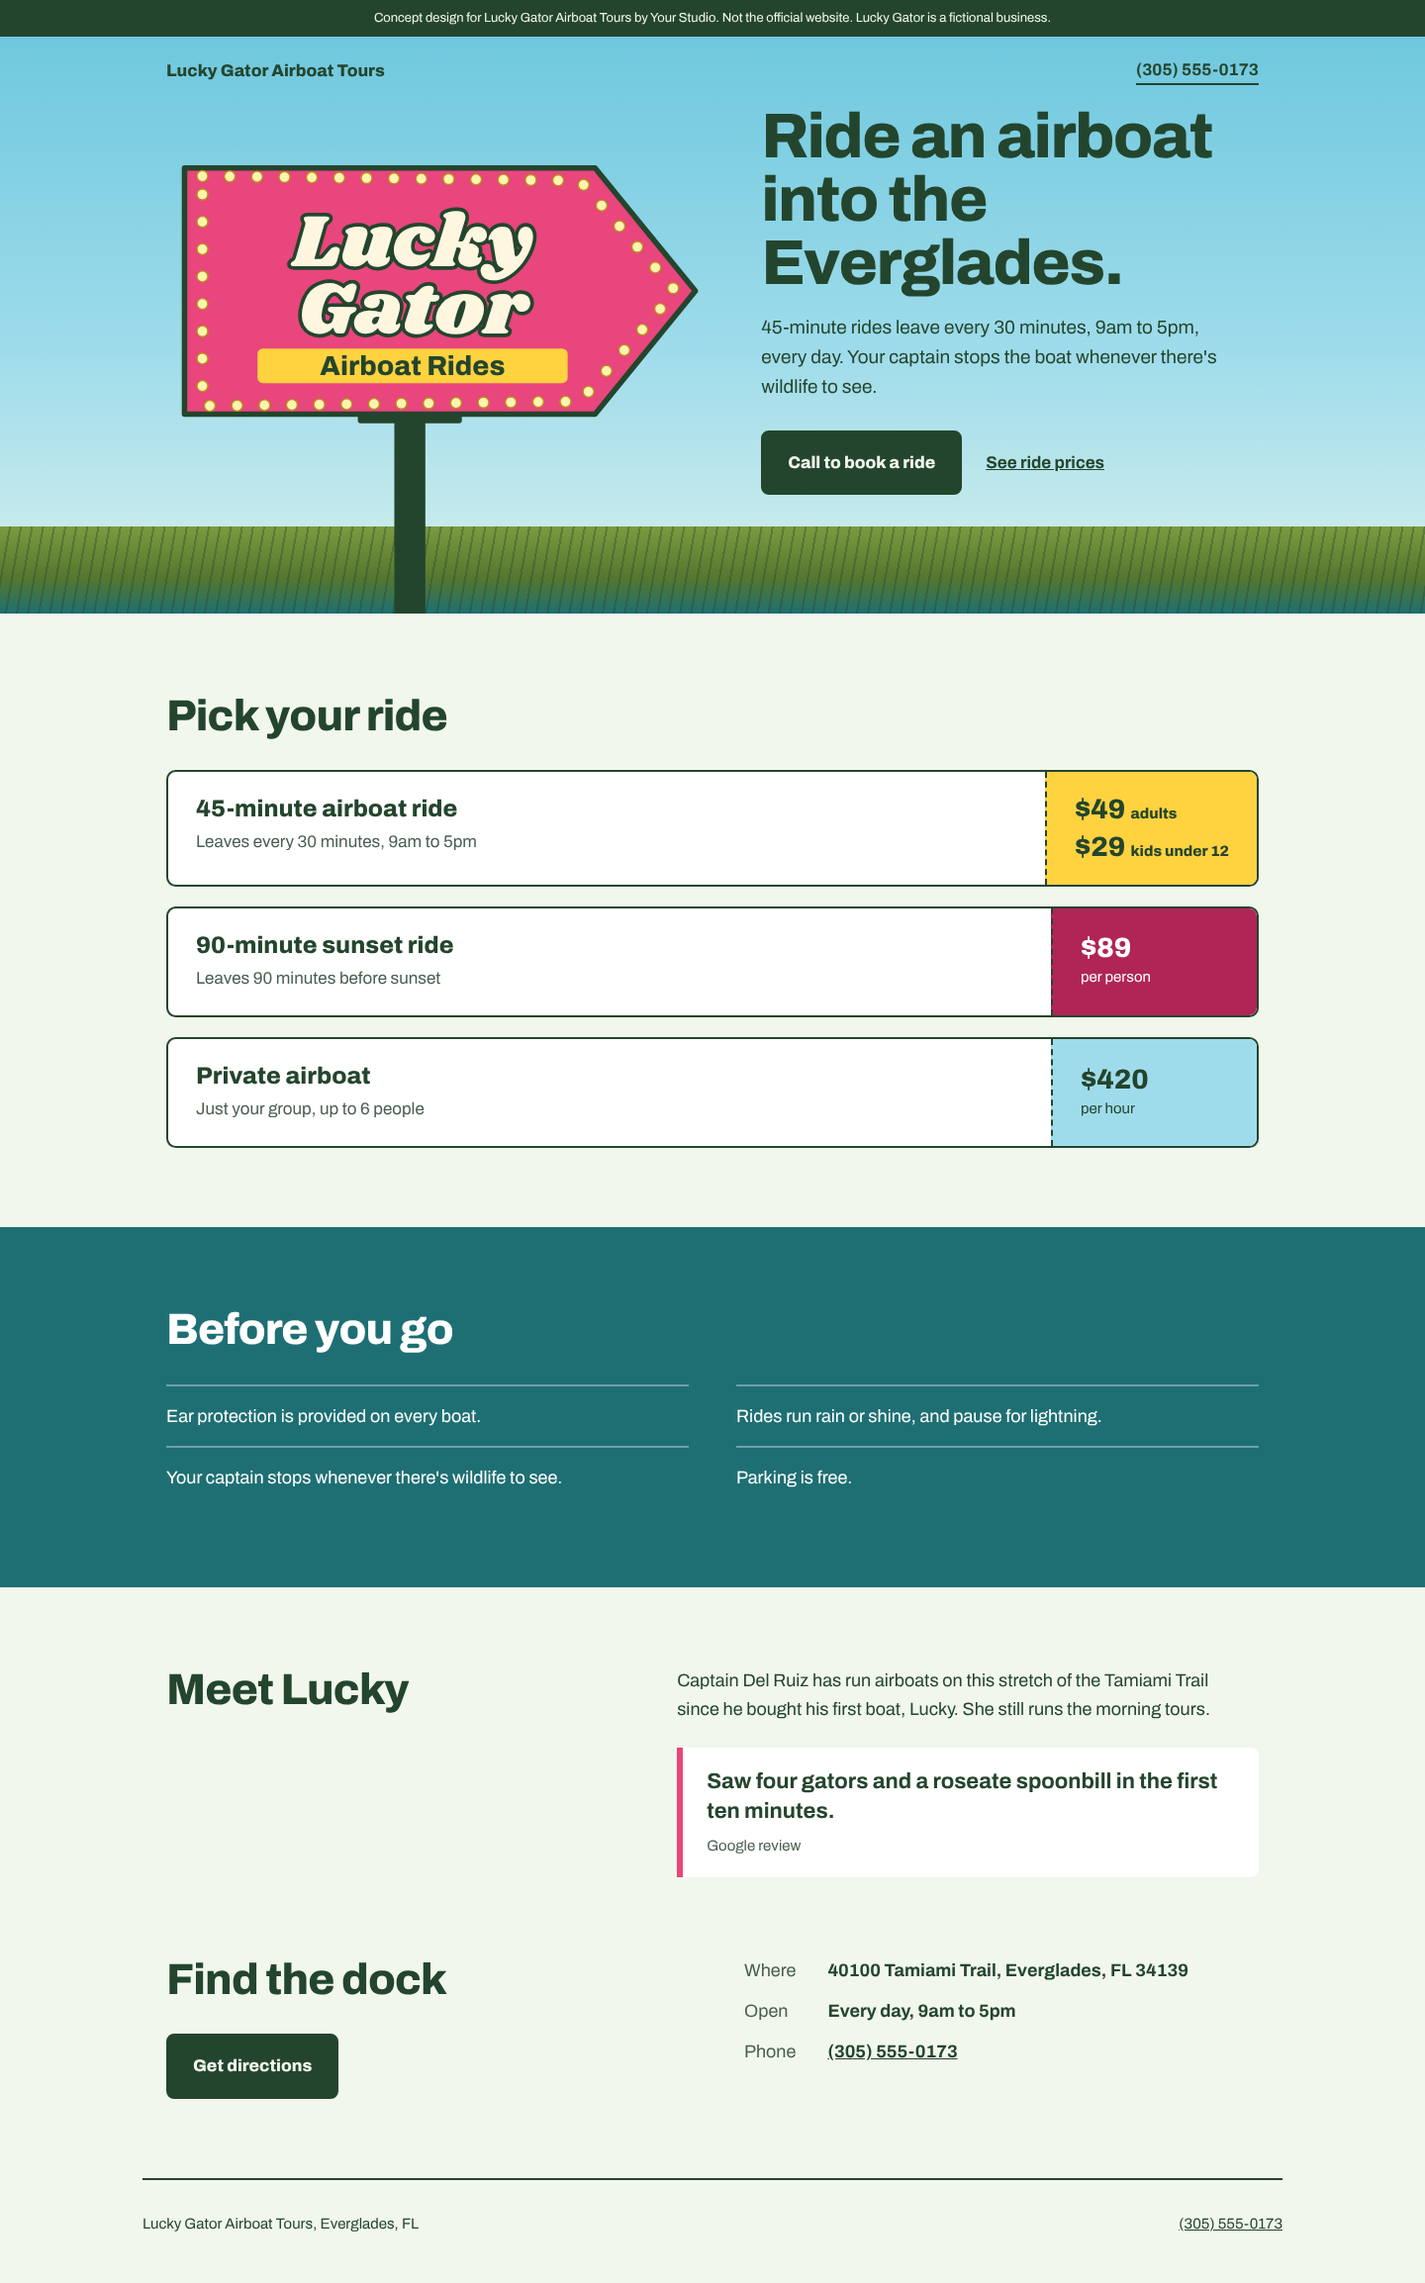
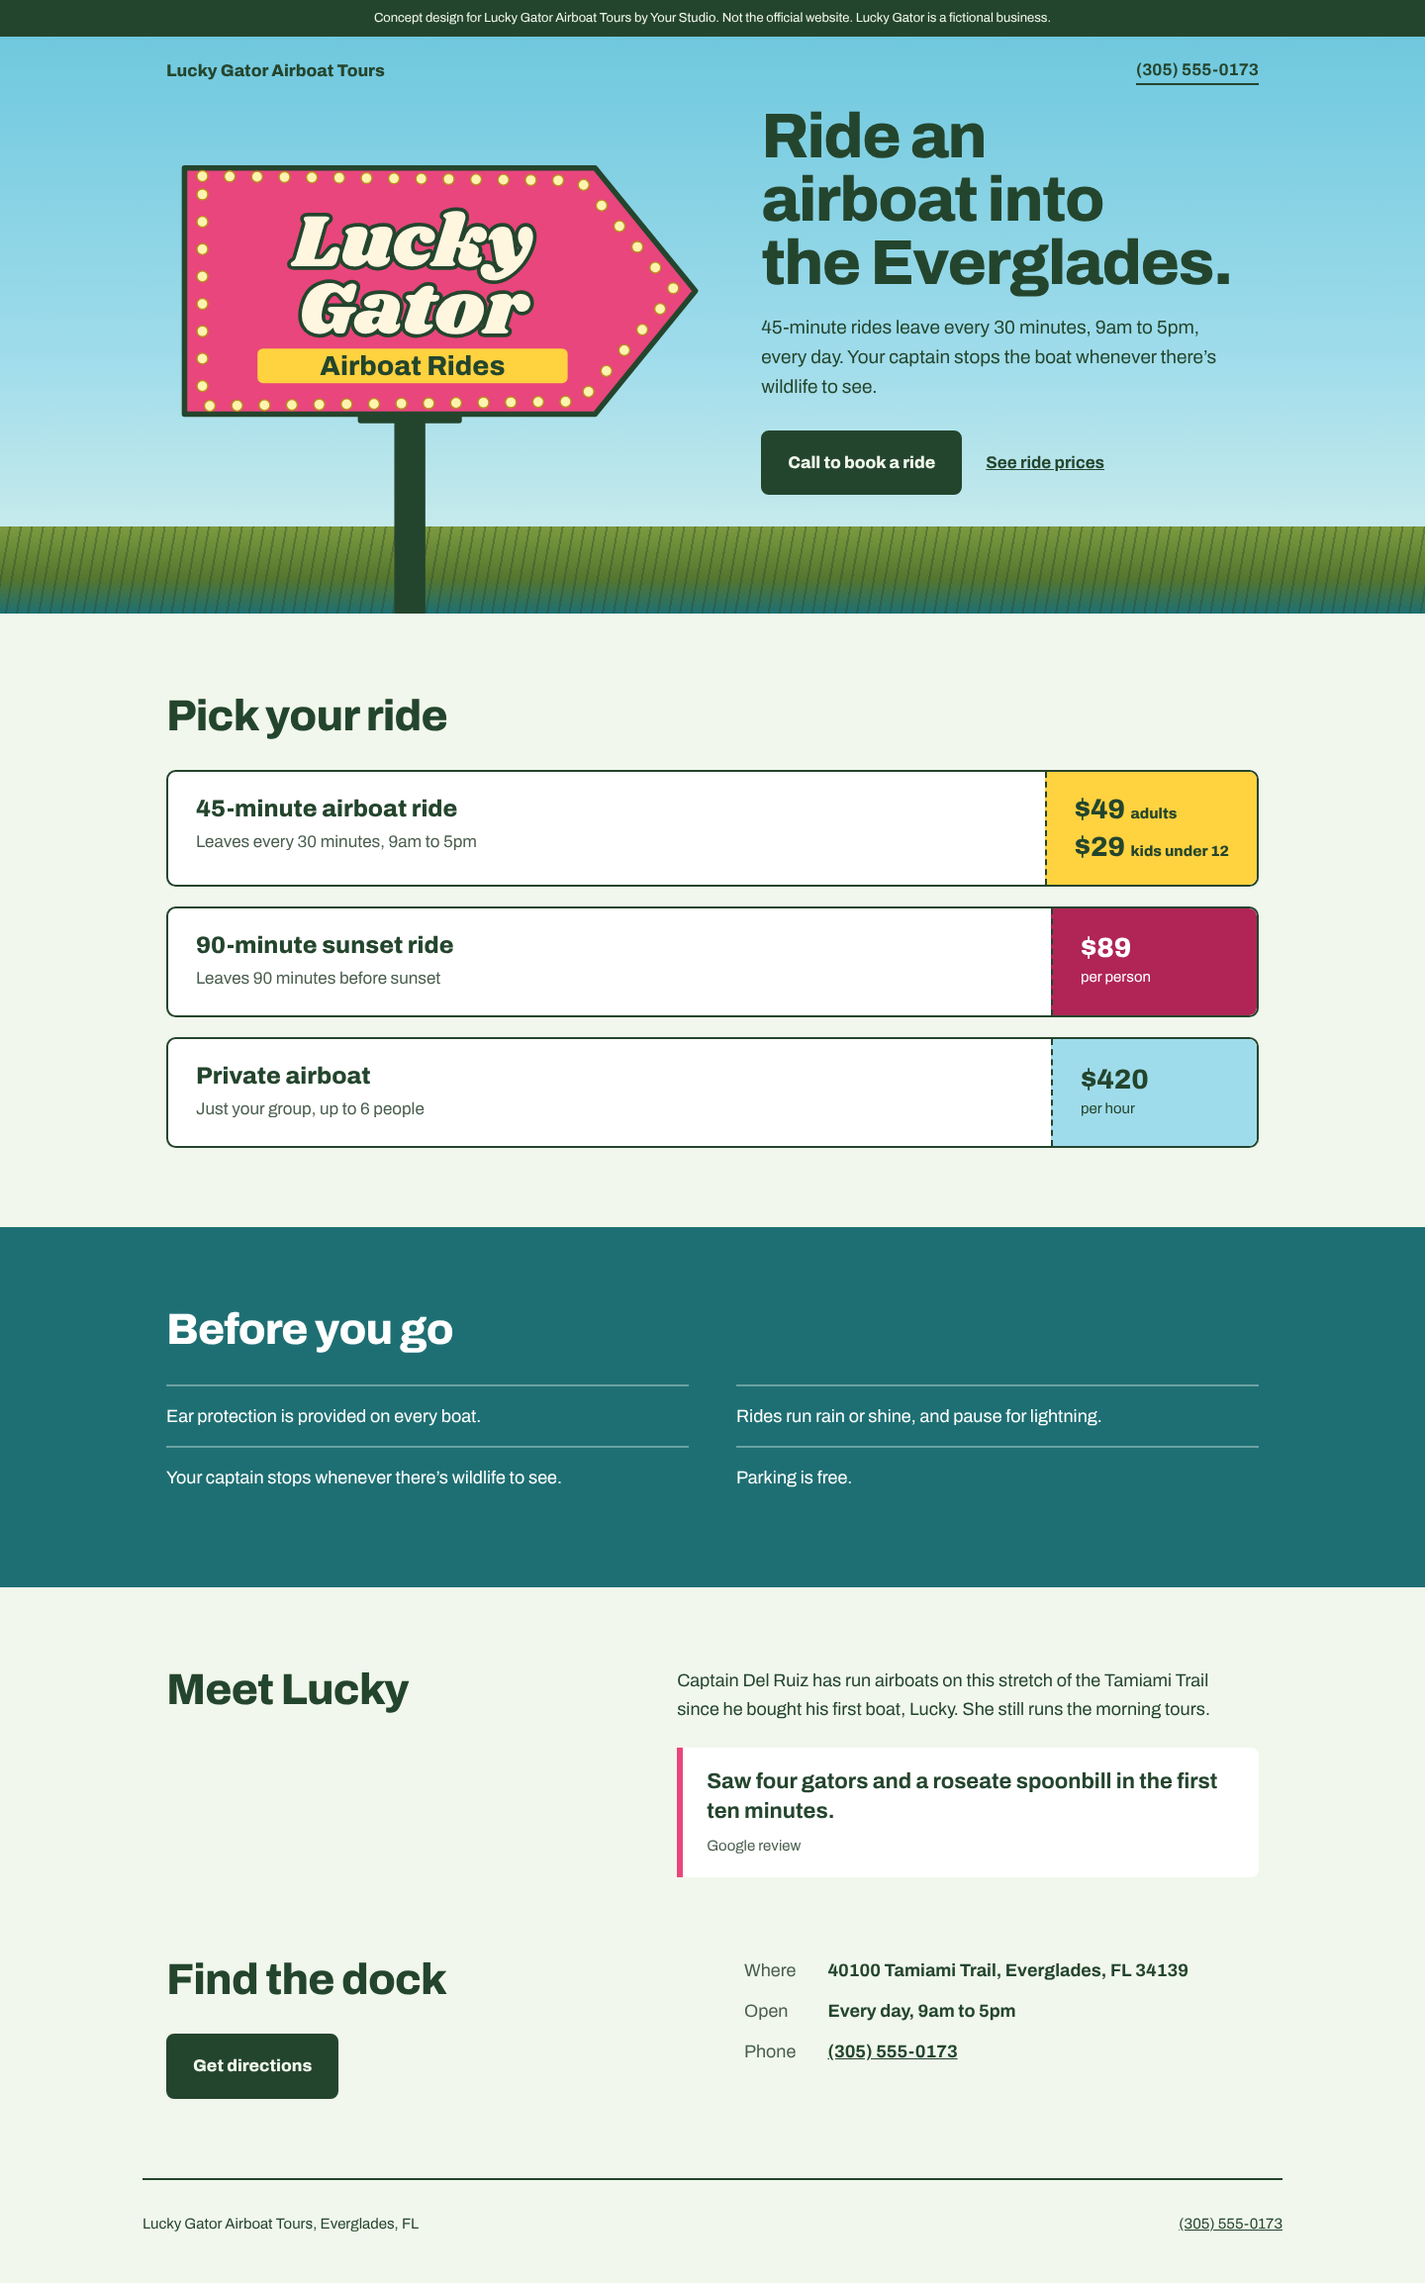
Add web-design-guidelines skill with local rules; fix Lucky Gator findings
- .claude/skills/web-design-guidelines: Vercel's skill adapted to read a saved
  rules.md (web-interface-guidelines, MIT) instead of fetching on every run
- CLAUDE.md: run it as the final review; sentence case overrides its Title Case rule
- Lucky Gator: skip link, theme-color, balanced headings, tabular price digits,
  curly apostrophes

Claude-Session: https://claude.ai/code/session_018sga1XNKWTP4Ak7UfBWrBr

Changed region(s): [[0.5312, 0.0312, 0.875, 0.1248]]

diff --git a/sites/sample-lucky-gator/index.html b/sites/sample-lucky-gator/index.html
@@ -4,6 +4,7 @@
 <meta charset="utf-8">
 <meta name="viewport" content="width=device-width, initial-scale=1">
 <meta name="robots" content="noindex, nofollow">
+<meta name="theme-color" content="#24452D">
 <title>Lucky Gator Airboat Tours, Everglades</title>
 <style>
[1 lines of base64/hex data omitted]
@@ -24,6 +25,9 @@
   *{box-sizing:border-box}
   body{margin:0;background:var(--sawgrass);color:var(--gator);font:400 1.0625rem/1.6 var(--sans)}
   a{color:inherit}
+  h1,h2,h3{text-wrap:balance}
+  .skip{position:absolute;left:1rem;top:-3rem;background:var(--gator);color:var(--sawgrass);padding:.6rem 1rem;border-radius:.4rem;font-weight:700;z-index:5}
+  .skip:focus{top:.75rem}
   a:focus-visible{outline:3px solid var(--flamingo);outline-offset:3px;border-radius:3px}
   .wrap{max-width:72rem;margin:0 auto;padding:0 1.5rem}
   #concept-banner{background:var(--gator);color:var(--sawgrass);font-size:.8125rem;text-align:center;padding:.5rem 1rem}
@@ -63,7 +67,7 @@
   .ticket h3{font:800 1.5rem/1.15 var(--sans);margin:0}
   .ticket .when{margin:.35rem 0 0;color:var(--muted)}
   .ticket .stub{border-left:2px dashed var(--gator);padding:1.5rem 1.75rem;min-width:13rem;display:flex;flex-direction:column;justify-content:center;gap:.2rem;background:var(--bulb);border-radius:0 .5rem .5rem 0}
-  .ticket .price{font:800 1.75rem/1 var(--sans)}
+  .ticket .price{font:800 1.75rem/1 var(--sans);font-variant-numeric:tabular-nums}
   .ticket .per{font-size:.9375rem}
   .ticket .price + .price{margin-top:.4rem}
   .ticket.sunset .stub{background:var(--flamingo-deep);color:#fff}
@@ -103,6 +107,7 @@
 </head>
 <body>
 <div id="concept-banner">Concept design for Lucky Gator Airboat Tours by Your Studio. Not the official website. Lucky Gator is a fictional business.</div>
+<a class="skip" href="#main">Skip to content</a>
 
 <header class="hero">
   <div class="wrap">
@@ -169,7 +174,7 @@
       </svg>
       <div class="pitch">
         <h1>Ride an airboat into the Everglades.</h1>
-        <p>45-minute rides leave every 30 minutes, 9am to 5pm, every day. Your captain stops the boat whenever there's wildlife to see.</p>
+        <p>45-minute rides leave every 30 minutes, 9am to 5pm, every day. Your captain stops the boat whenever there’s wildlife to see.</p>
         <div class="ctas">
           <a class="btn" href="tel:+13055550173">Call to book a ride</a>
           <a class="plain" href="#rides">See ride prices</a>
@@ -179,7 +184,7 @@
   </div>
 </header>
 
-<main>
+<main id="main">
   <section class="block" id="rides" aria-labelledby="rides-h">
     <div class="wrap">
       <h2 id="rides-h">Pick your ride</h2>
@@ -206,7 +211,7 @@
       <ul>
         <li>Ear protection is provided on every boat.</li>
         <li>Rides run rain or shine, and pause for lightning.</li>
-        <li>Your captain stops whenever there's wildlife to see.</li>
+        <li>Your captain stops whenever there’s wildlife to see.</li>
         <li>Parking is free.</li>
       </ul>
     </div>

diff --git a/.claude/skills/web-design-guidelines/rules.md b/.claude/skills/web-design-guidelines/rules.md
@@ -1,0 +1,191 @@
+---
+description: Review UI code for Vercel Web Interface Guidelines compliance
+argument-hint: <file-or-pattern>
+---
+
+# Web Interface Guidelines
+
+Review these files for compliance: $ARGUMENTS
+
+Read files, check against rules below. Output concise but comprehensive—sacrifice grammar for brevity. High signal-to-noise.
+
+## Rules
+
+### Accessibility
+
+- Icon-only buttons need `aria-label`
+- Form controls need `<label>` or `aria-label`
+- Interactive elements need keyboard handlers (`onKeyDown`/`onKeyUp`)
+- `<button>` for actions, `<a>`/`<Link>` for navigation (not `<div onClick>`)
+- Images need `alt` (or `alt=""` if decorative)
+- Decorative icons need `aria-hidden="true"`
+- Async updates (toasts, validation) need `aria-live="polite"`
+- Use semantic HTML (`<button>`, `<a>`, `<label>`, `<table>`) before ARIA
+- Headings hierarchical `<h1>`–`<h6>`; include skip link for main content
+- `scroll-margin-top` on heading anchors
+- Meaningful media needs captions, transcripts, or descriptions as applicable
+- Media controls need keyboard support; decorative media needs assistive-tech hiding
+
+### Focus States
+
+- Interactive elements need visible focus: `focus-visible:ring-*` or equivalent
+- Never `outline-none` / `outline: none` without focus replacement
+- Use `:focus-visible` over `:focus` (avoid focus ring on click)
+- Group focus with `:focus-within` for compound controls
+- Sticky headers/footers/overlays must not cover the focused element
+
+### Forms
+
+- Inputs need `autocomplete` and meaningful `name`
+- Use correct `type` (`email`, `tel`, `url`, `number`) and `inputmode`
+- Never block paste (`onPaste` + `preventDefault`)
+- Labels clickable (`htmlFor` or wrapping control)
+- Disable spellcheck on emails, codes, usernames (`spellCheck={false}`)
+- Checkboxes/radios: label + control share single hit target (no dead zones)
+- Submit button stays enabled until request starts; spinner during request
+- Errors inline next to fields; focus first error on submit
+- Placeholders end with `…` and show example pattern
+- `autocomplete="off"` on non-auth fields to avoid password manager triggers
+- Warn before navigation with unsaved changes (`beforeunload` or router guard)
+
+### Animation
+
+- Honor `prefers-reduced-motion` (provide reduced variant or disable)
+- Animate `transform`/`opacity` only (compositor-friendly)
+- Never `transition: all`—list properties explicitly
+- Set correct `transform-origin`
+- SVG: transforms on `<g>` wrapper with `transform-box: fill-box; transform-origin: center`
+- Animations interruptible—respond to user input mid-animation
+- Autoplay motion >5 seconds alongside other content needs pause, stop, or hide controls
+- Muted decorative loops must stop under `prefers-reduced-motion`
+
+### Typography
+
+- `…` not `...`
+- Curly quotes `“` `”` not straight `"`
+- Non-breaking spaces: `10&nbsp;MB`, `⌘&nbsp;K`, brand names
+- Loading states end with `…`: `"Loading…"`, `"Saving…"`
+- `font-variant-numeric: tabular-nums` for number columns/comparisons
+- Use `text-wrap: balance` or `text-pretty` on headings (prevents widows)
+
+### Content Handling
+
+- Text containers handle long content: `truncate`, `line-clamp-*`, or `break-words`
+- Flex children need `min-w-0` to allow text truncation
+- Handle empty states—don't render broken UI for empty strings/arrays
+- User-generated content: anticipate short, average, and very long inputs
+
+### Images
+
+- `<img>` needs explicit `width` and `height` (prevents CLS)
+- Below-fold images: `loading="lazy"`
+- Above-fold critical images: `priority` or `fetchpriority="high"`
+
+### Performance
+
+- Large lists (>50 items): virtualize (`virtua`, `content-visibility: auto`)
+- No layout reads in render (`getBoundingClientRect`, `offsetHeight`, `offsetWidth`, `scrollTop`)
+- Batch DOM reads/writes; avoid interleaving
+- Prefer uncontrolled inputs; controlled inputs must be cheap per keystroke
+- Add `<link rel="preconnect">` for CDN/asset domains
+- Critical fonts: `<link rel="preload" as="font">` with `font-display: swap`
+- Prefer `<video autoplay muted loop playsinline>` over animated GIF; provide a still alternative
+- Short non-essential loops: Safari H.264 MP4 `<picture>` source, `prefers-reduced-motion` media condition, and still fallback
+
+### Navigation & State
+
+- URL reflects state—filters, tabs, pagination, expanded panels in query params
+- Links use `<a>`/`<Link>` (Cmd/Ctrl+click, middle-click support)
+- Deep-link all stateful UI (if uses `useState`, consider URL sync via nuqs or similar)
+- Destructive actions need confirmation modal or undo window—never immediate
+
+### Touch & Interaction
+
+- `touch-action: manipulation` (prevents double-tap zoom delay)
+- `-webkit-tap-highlight-color` set intentionally
+- `overscroll-behavior: contain` in modals/drawers/sheets
+- Page rubber-band suppression: `overscroll-behavior: none` on `<html>` inside `@media (pointer: fine)`; keep coarse-pointer page defaults for pull-to-refresh. Test hybrid touch devices: `pointer` describes the primary input, and `none` also disables scroll chaining and native swipe navigation
+- During drag: disable text selection, `inert` on dragged elements
+- Drag/swipe/pinch/path gestures need tap/click and keyboard alternatives unless essential
+- `autoFocus` sparingly—desktop only, single primary input; avoid on mobile
+
+### Safe Areas & Layout
+
+- Full-bleed layouts need `env(safe-area-inset-*)` for notches
+- Avoid unwanted scrollbars: `overflow-x-hidden` on containers, fix content overflow
+- Flex/grid over JS measurement for layout
+
+### Dark Mode & Theming
+
+- `color-scheme: dark` on `<html>` for dark themes (fixes scrollbar, inputs)
+- `<meta name="theme-color">` matches page background
+- Native `<select>`: explicit `background-color` and `color` (Windows dark mode)
+
+### Locale & i18n
+
+- Dates/times: use `Intl.DateTimeFormat` not hardcoded formats
+- Numbers/currency: use `Intl.NumberFormat` not hardcoded formats
+- Detect language via `Accept-Language` / `navigator.languages`, not IP
+- Brand names, code tokens, identifiers: wrap with `translate="no"` to prevent garbled auto-translation
+
+### Hydration Safety
+
+- Inputs with `value` need `onChange` (or use `defaultValue` for uncontrolled)
+- Date/time rendering: guard against hydration mismatch (server vs client)
+- `suppressHydrationWarning` only where truly needed
+
+### Hover & Interactive States
+
+- Buttons/links need `hover:` state (visual feedback)
+- Interactive states increase contrast: hover/active/focus more prominent than rest
+
+### Content & Copy
+
+- Active voice: "Install the CLI" not "The CLI will be installed"
+- Title Case for headings/buttons (Chicago style)
+- Numerals for counts: "8 deployments" not "eight"
+- Specific button labels: "Save API Key" not "Continue"
+- Error messages include fix/next step, not just problem
+- Second person; avoid first person
+- `&` over "and" where space-constrained
+
+### Anti-patterns (flag these)
+
+- `user-scalable=no` or `maximum-scale=1` disabling zoom
+- `onPaste` with `preventDefault`
+- `transition: all`
+- `outline-none` without focus-visible replacement
+- Inline `onClick` navigation without `<a>`
+- `<div>` or `<span>` with click handlers (should be `<button>`)
+- Images without dimensions
+- Large arrays `.map()` without virtualization
+- Form inputs without labels
+- Icon buttons without `aria-label`
+- Hardcoded date/number formats (use `Intl.*`)
+- `autoFocus` without clear justification
+- Animated GIF when compressed video is suitable
+- Gesture-only action without tap/click and keyboard alternative
+
+## Output Format
+
+Group by file. Use `file:line` format (VS Code clickable). Terse findings.
+
+```text
+## src/Button.tsx
+
+src/Button.tsx:42 - icon button missing aria-label
+src/Button.tsx:18 - input lacks label
+src/Button.tsx:55 - animation missing prefers-reduced-motion
+src/Button.tsx:67 - transition: all → list properties
+
+## src/Modal.tsx
+
+src/Modal.tsx:12 - missing overscroll-behavior: contain
+src/Modal.tsx:34 - "..." → "…"
+
+## src/Card.tsx
+
+✓ pass
+```
+
+State issue + location. Skip explanation unless fix non-obvious. No preamble.

diff --git a/.claude/skills/web-design-guidelines/SKILL.md b/.claude/skills/web-design-guidelines/SKILL.md
@@ -1,0 +1,34 @@
+---
+name: web-design-guidelines
+description: Review UI code for Web Interface Guidelines compliance. Use when asked to "review my UI", "check accessibility", "audit design", "review UX", or "check my site against best practices".
+metadata:
+  author: vercel
+  version: "1.0.0"
+  argument-hint: <file-or-pattern>
+---
+
+# Web Interface Guidelines
+
+Review files for compliance with Vercel's Web Interface Guidelines.
+
+## How it works
+
+1. Read the rules in `rules.md` next to this file (a saved copy, so reviews work
+   offline and give the same results every run).
+2. Read the specified files (or ask which files to review).
+3. Check them against every rule in `rules.md`.
+4. Output findings in the terse `file:line` format `rules.md` describes.
+
+Many rules are written for React (`onClick`, `<Link>`, `priority`). For this
+project's single-file HTML sites, apply the plain HTML/CSS equivalent and skip rules
+that don't apply (forms, routing, data fetching) instead of reporting them.
+
+To update the rules, replace `rules.md` with the latest `command.md` from
+https://github.com/vercel-labs/web-interface-guidelines.
+
+## Source and license
+
+Adapted from vercel-labs/agent-skills@1a2c79d (web-design-guidelines, MIT). The original
+fetches the rules from GitHub on every run; this copy reads `rules.md` instead.
+`rules.md` is `command.md` from vercel-labs/web-interface-guidelines@434b7f9
+(MIT, see LICENSE).

diff --git a/README.md b/README.md
@@ -95,6 +95,7 @@ how many past designs to avoid repeating).
 | seo | Search basics for final, paid sites | addyosmani/web-quality-skills, MIT |
 | schema | LocalBusiness structured data for final sites | coreyhaines31/marketingskills, MIT |
 | cold-email | Writing outreach emails and follow-ups | coreyhaines31/marketingskills, MIT |
+| web-design-guidelines | Final review against Vercel's interface rules (rules saved locally) | vercel-labs/agent-skills + web-interface-guidelines, MIT |
 | image-to-code | Building a site from a flyer, mockup or screenshot you provide | Leonxlnx/imagegen-skills, MIT |
 | design-md | Using the reference library and writing a DESIGN.md per client | written for this repo |
 

diff --git a/CLAUDE.md b/CLAUDE.md
@@ -18,6 +18,9 @@ Every concept site:
 - `performance`: keep the page light. Single file, no heavy scripts, sensible fonts.
 - `webapp-testing`: Playwright patterns for anything `autosite.py shoot` doesn't
   cover (checking a click, mobile menu, console errors).
+- `web-design-guidelines`: final review against Vercel's interface rules before
+  you finish. Fix what it finds. Exception: headings and buttons stay in sentence
+  case (frontend-design wins over its "Title Case" rule).
 
 Only when a client has paid and the site goes live (see "Final site" below):
 - `seo`: titles, meta descriptions, headings, local search basics.
